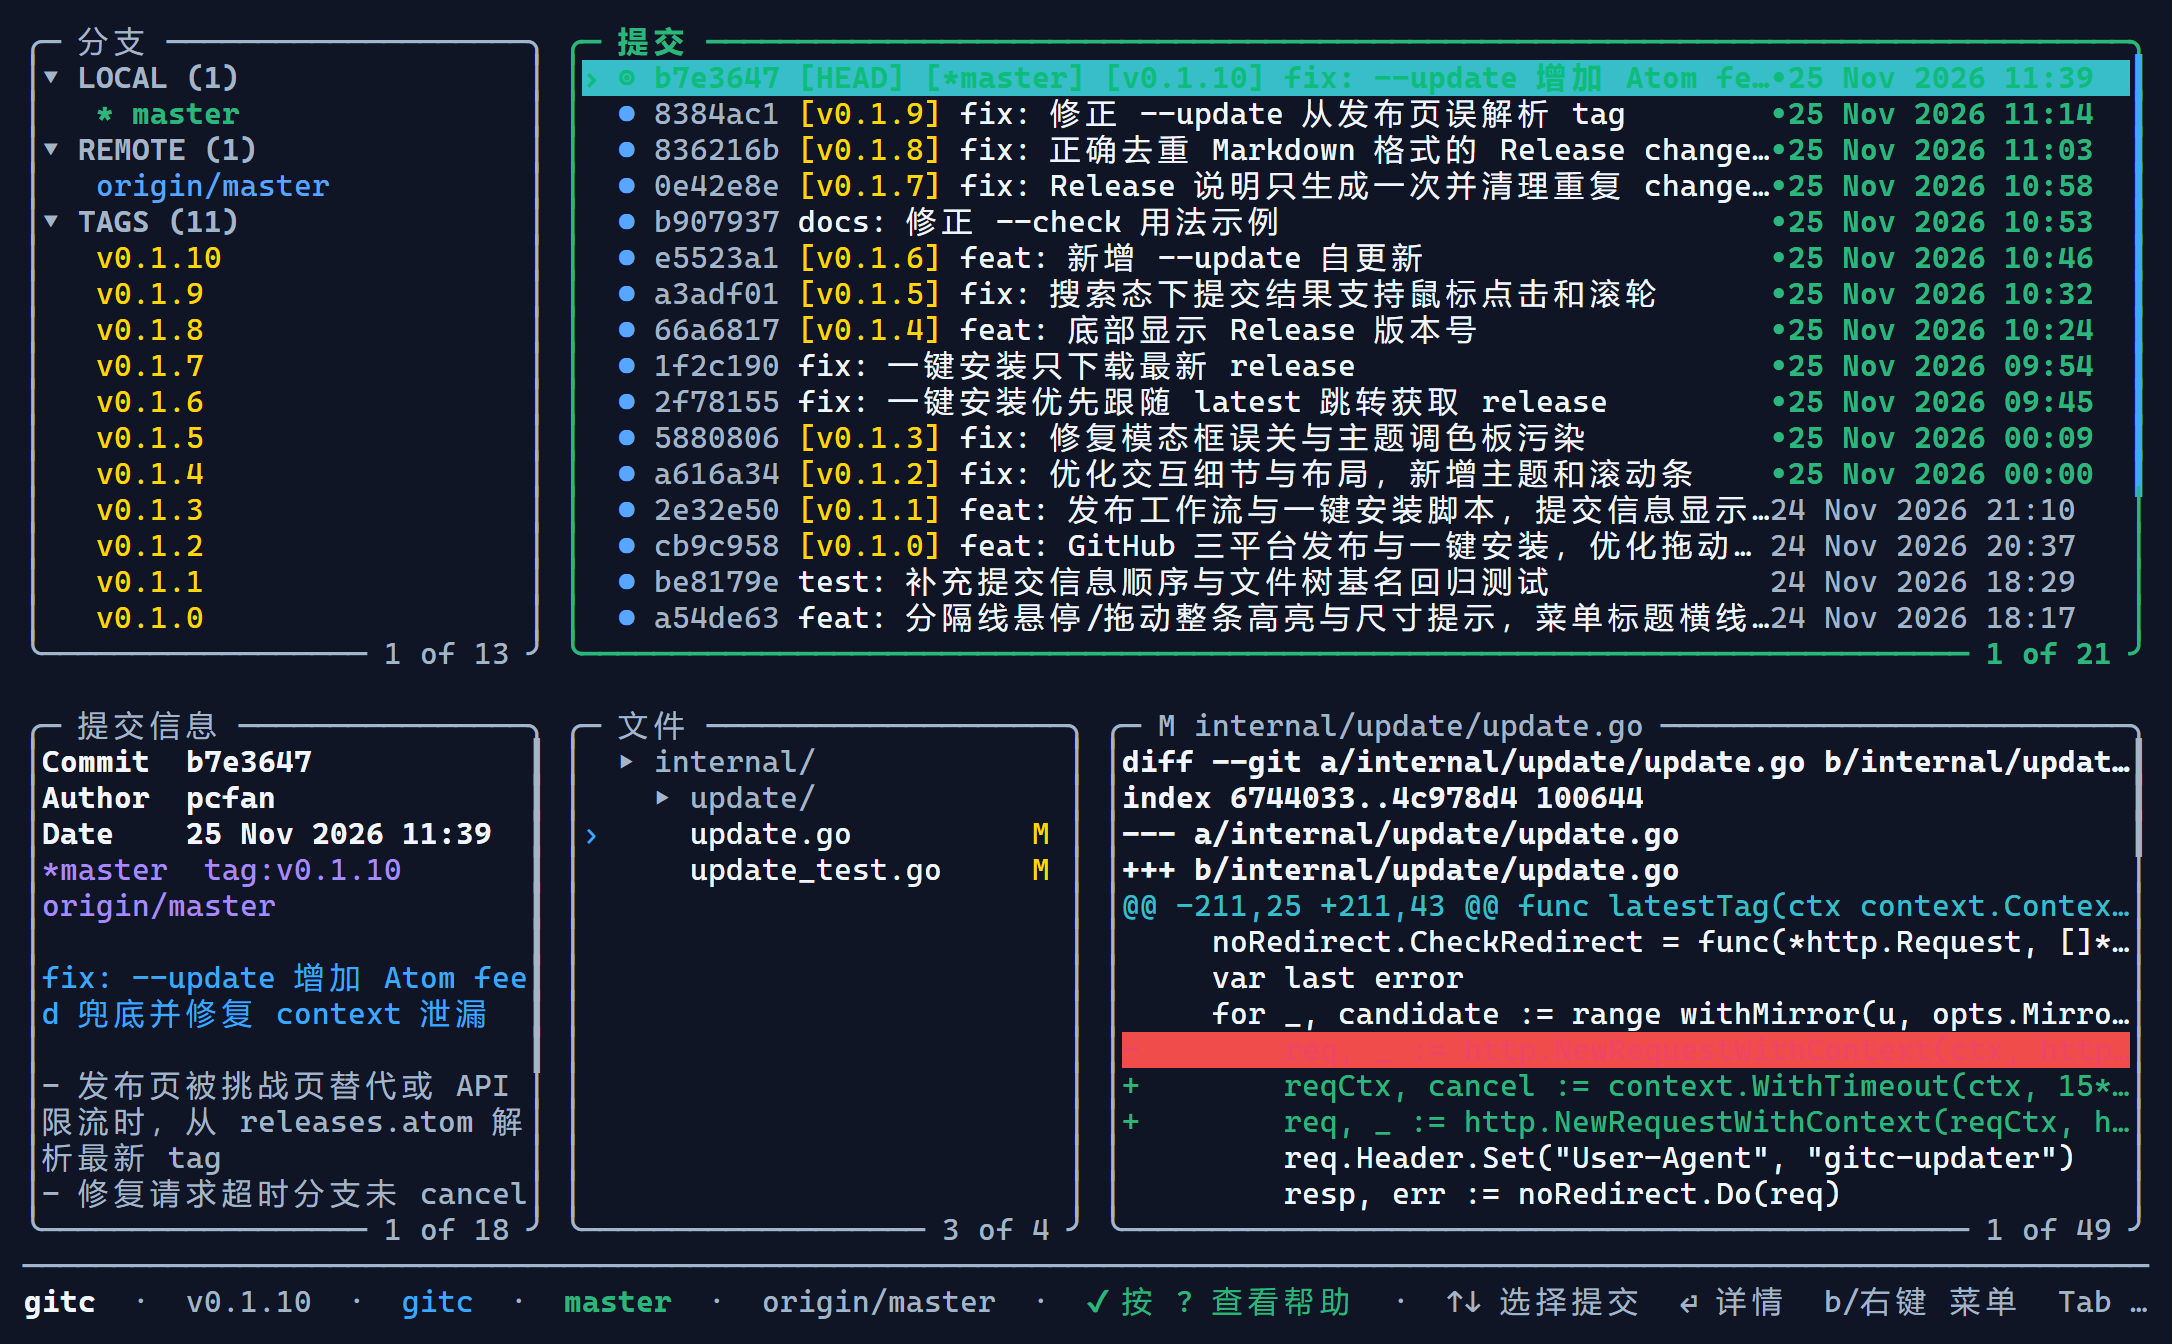
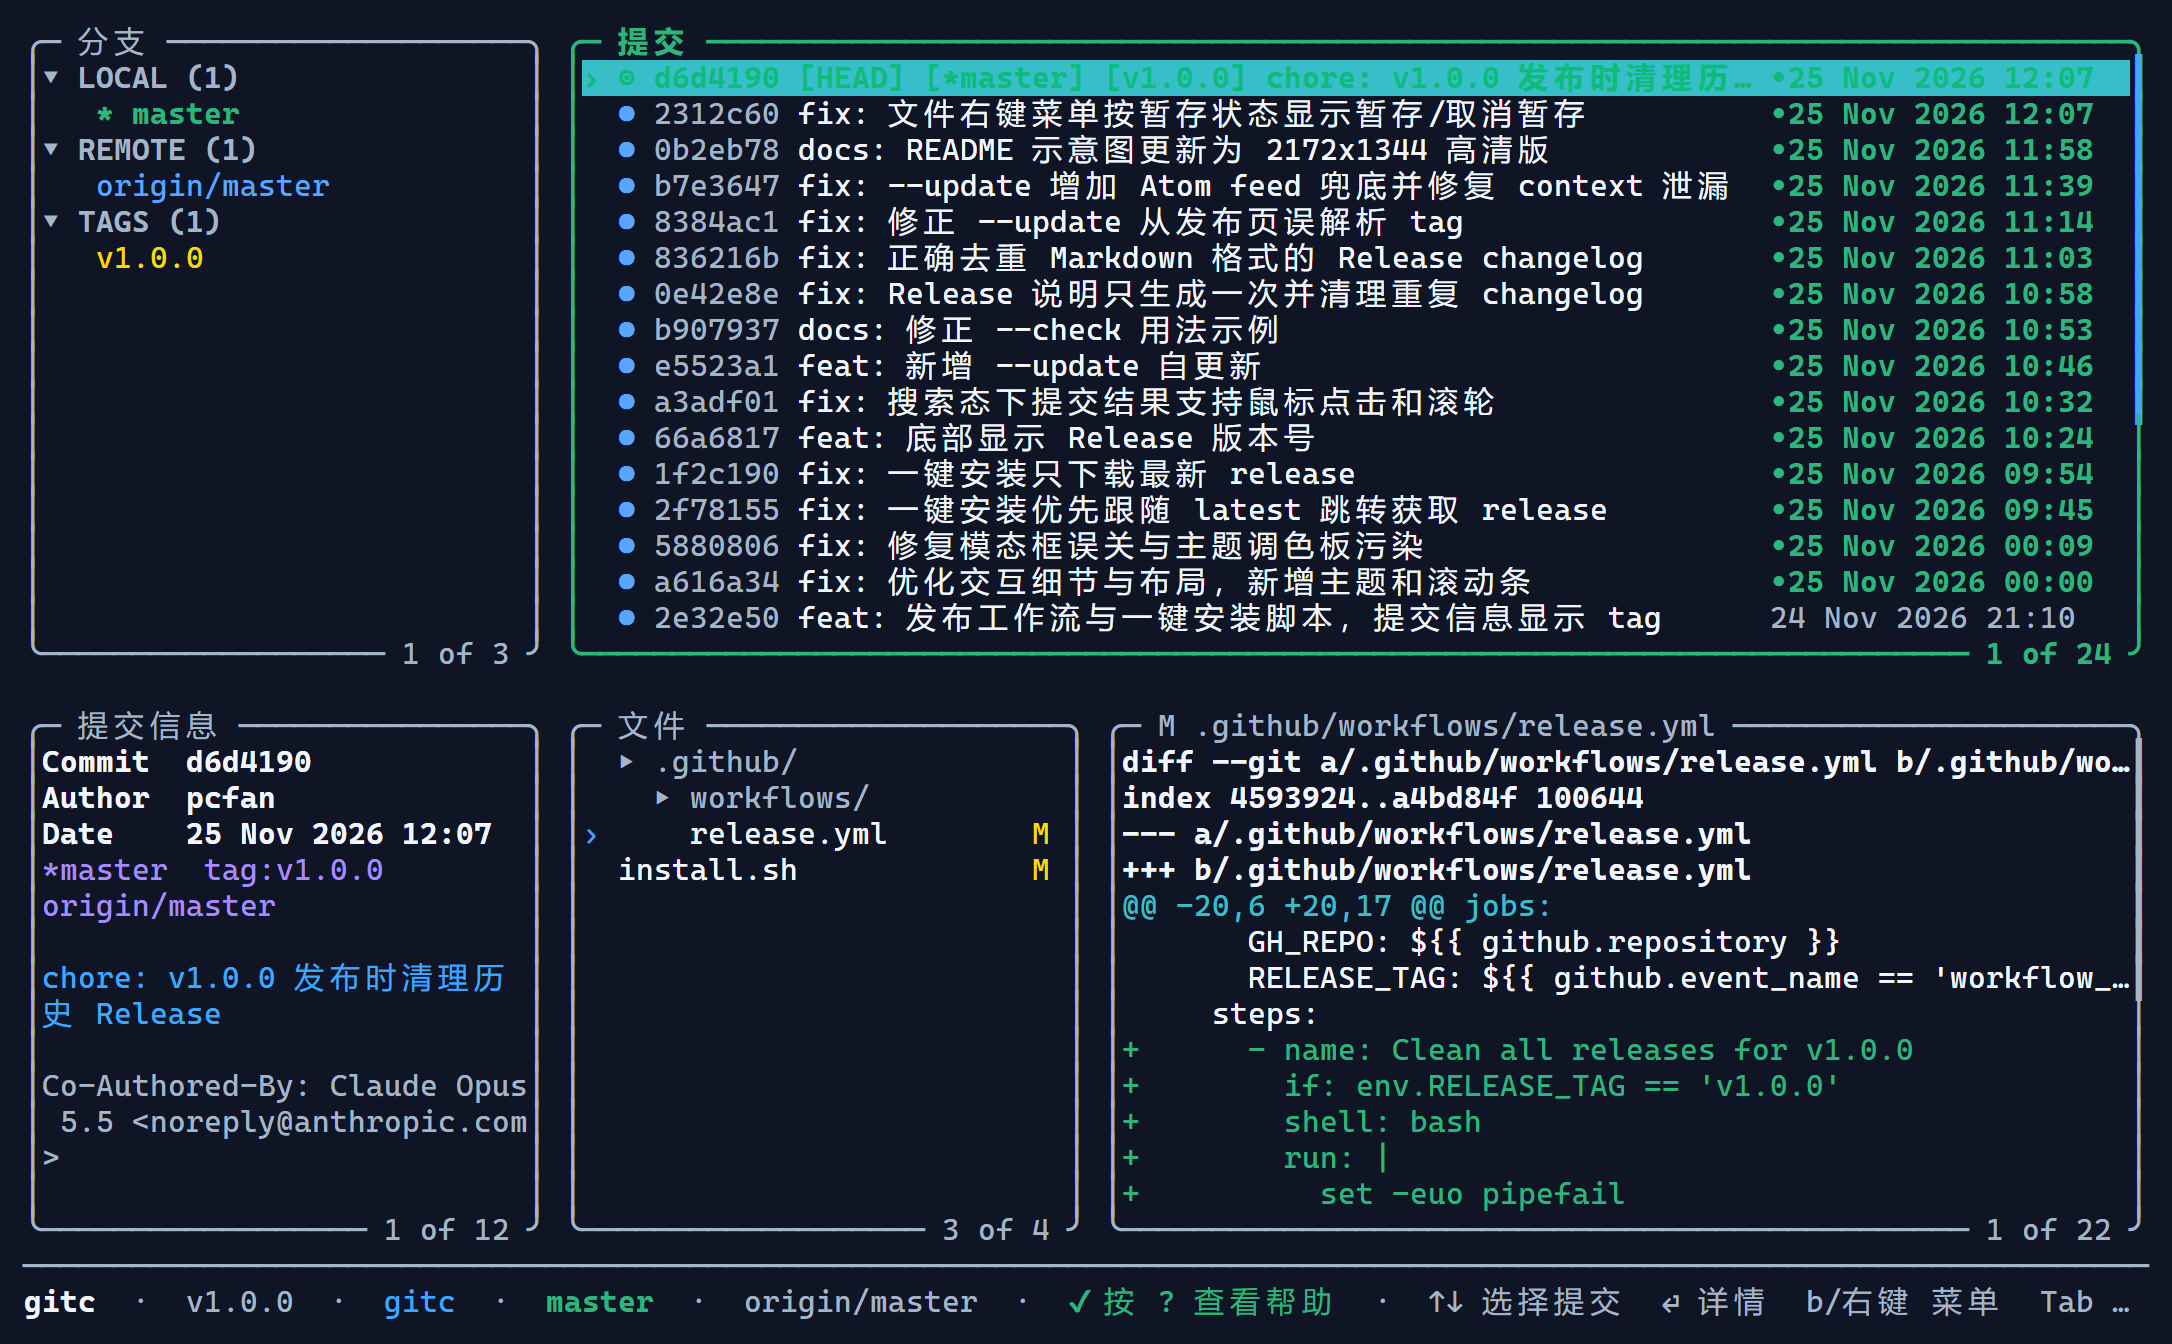
docs: 示意图更新为 v1.0.0 高清版

diff --git a/internal/ui/demo_frames_test.go b/internal/ui/demo_frames_test.go
@@ -30,7 +30,7 @@ func TestDumpRealFrames(t *testing.T) {
 		t.Fatal(err)
 	}
 	i18n.Set("zh")
-	SetVersion("v0.1.10")
+	SetVersion("v1.0.0")
 	defer SetVersion("")
 	lipgloss.SetColorProfile(termenv.TrueColor)
 	lipgloss.SetHasDarkBackground(true)
